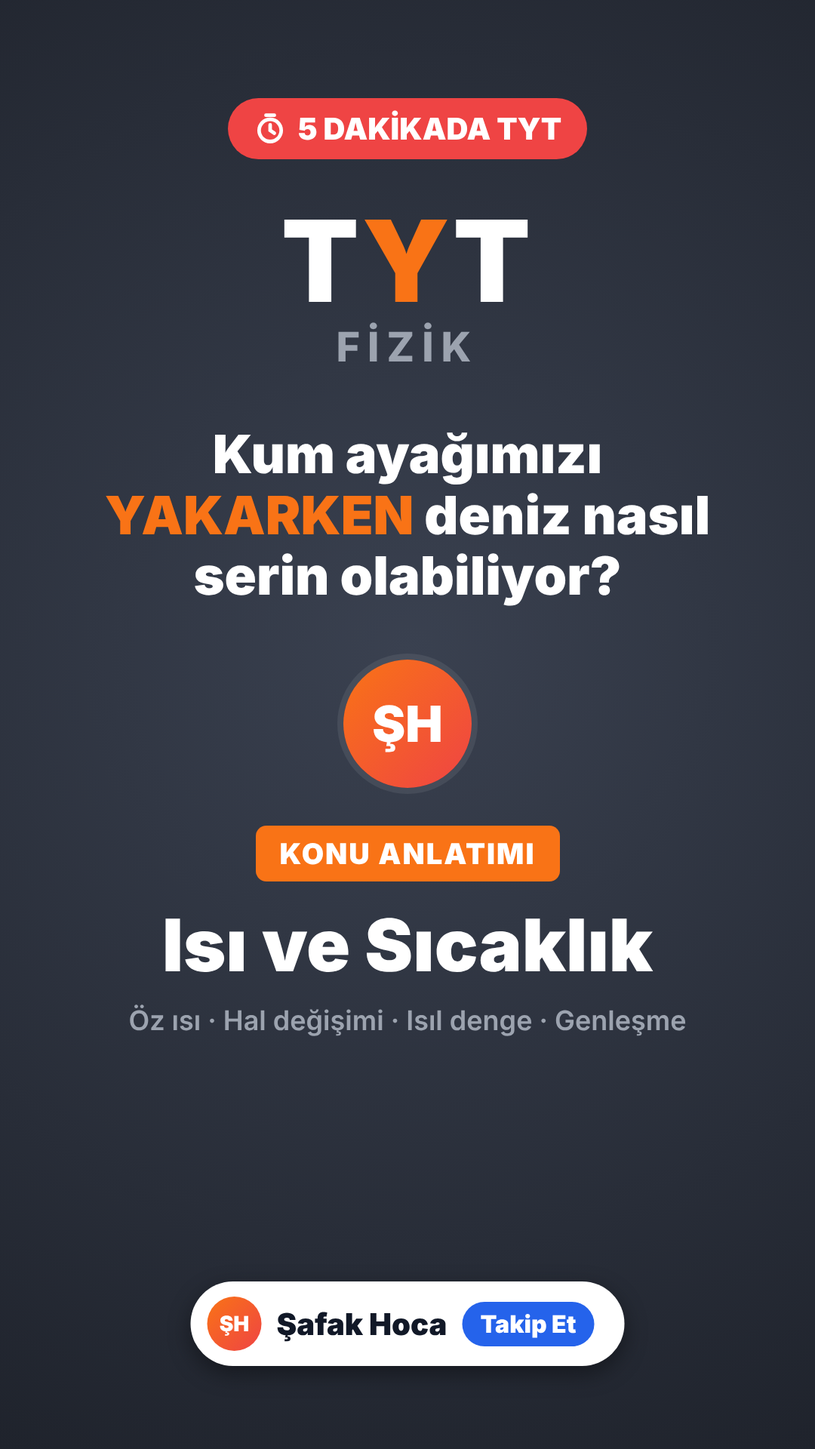
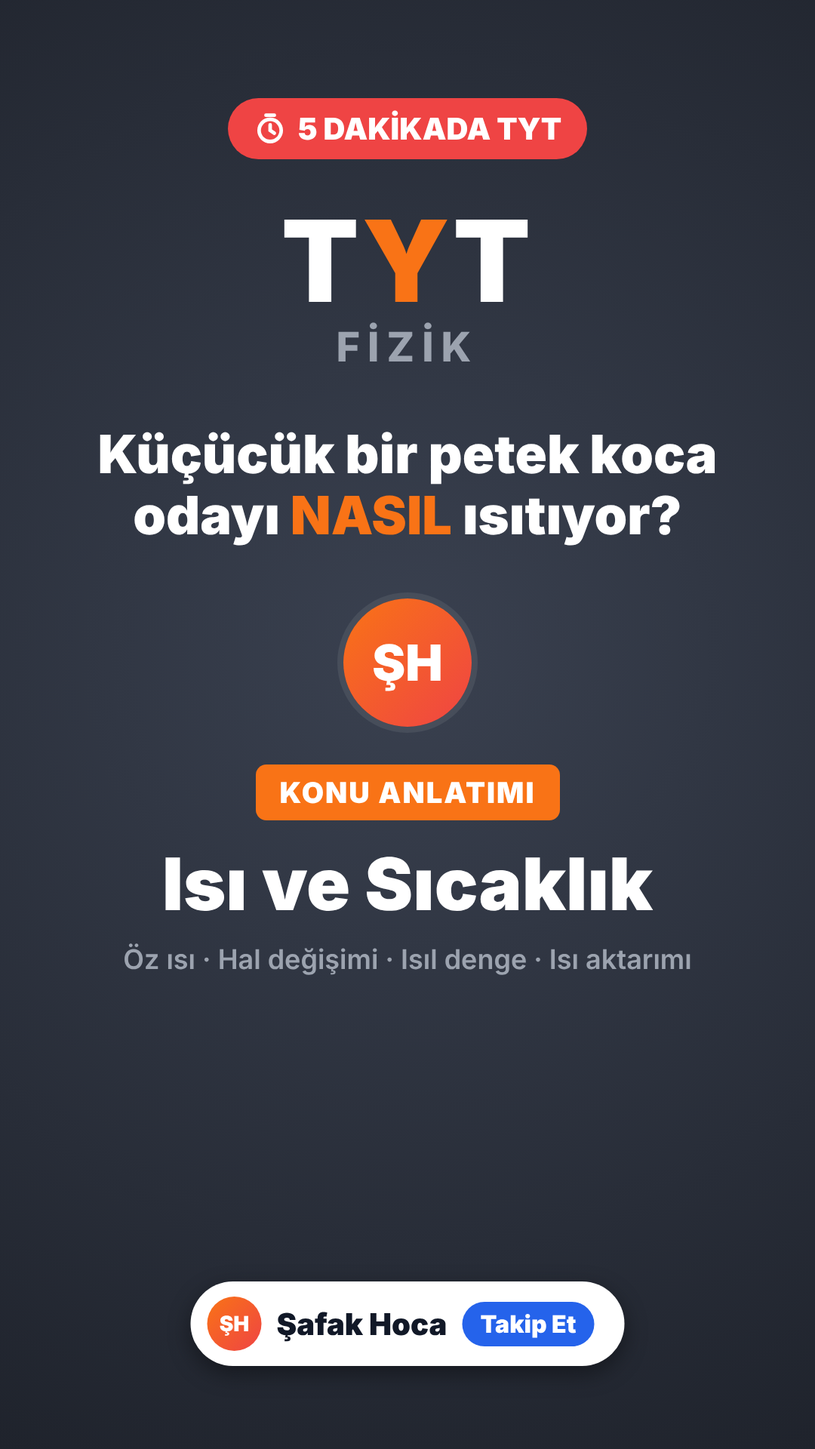
TYT Isı ve Sıcaklık: kalorifer peteği girişi, Adım 6 ısı aktarım yolları
Claude-Session: https://claude.ai/code/session_01Xc7NeVxuRXWQCx2wXCgMJt

Changed region(s): [[0.1222, 0.2812, 0.8861, 0.7188]]

diff --git a/tyt/konular/isi_sicaklik.html b/tyt/konular/isi_sicaklik.html
@@ -13,106 +13,88 @@
 </head>
 <body>
 
-<!-- ================= 1 · GİRİŞ (0:00–0:15) · plaj ================= -->
-<section class="sahne" id="giris" style="background:#0c4a6e">
+<!-- ================= 1 · GİRİŞ (0:00–0:15) · kalorifer peteği ================= -->
+<section class="sahne" id="giris" style="background:#1c1714">
   <svg viewBox="0 0 1080 1920" width="1080" height="1920" style="position:absolute;inset:0">
     <defs>
-      <linearGradient id="gok" x1="0" y1="0" x2="0" y2="1">
-        <stop offset="0" stop-color="#0369a1"/><stop offset=".55" stop-color="#38bdf8"/><stop offset="1" stop-color="#e0f2fe"/>
-      </linearGradient>
-      <radialGradient id="gunesP" cx=".5" cy=".5" r=".5">
-        <stop offset="0" stop-color="#fffbeb"/><stop offset=".35" stop-color="#fde047"/><stop offset=".6" stop-color="#facc15" stop-opacity=".55"/><stop offset="1" stop-color="#facc15" stop-opacity="0"/>
-      </radialGradient>
-      <linearGradient id="deniz" x1="0" y1="0" x2="0" y2="1">
-        <stop offset="0" stop-color="#0369a1"/><stop offset=".5" stop-color="#0284c7"/><stop offset="1" stop-color="#22d3ee"/>
-      </linearGradient>
-      <linearGradient id="kum" x1="0" y1="0" x2="0" y2="1">
-        <stop offset="0" stop-color="#fde7b0"/><stop offset=".5" stop-color="#f4c77a"/><stop offset="1" stop-color="#e0a458"/>
-      </linearGradient>
-      <linearGradient id="ust" x1="0" y1="0" x2="0" y2="1">
-        <stop offset="0" stop-color="#0b1220" stop-opacity=".85"/><stop offset=".6" stop-color="#0b1220" stop-opacity=".35"/><stop offset="1" stop-color="#0b1220" stop-opacity="0"/>
-      </linearGradient>
-      <linearGradient id="alt" x1="0" y1="0" x2="0" y2="1">
-        <stop offset="0" stop-color="#0b1220" stop-opacity="0"/><stop offset="1" stop-color="#0b1220" stop-opacity=".75"/>
-      </linearGradient>
-      <filter id="bulanik"><feGaussianBlur stdDeviation="6"/></filter>
+      <linearGradient id="duvar" x1="0" y1="0" x2="0" y2="1"><stop offset="0" stop-color="#2a211c"/><stop offset=".6" stop-color="#5a4334"/><stop offset="1" stop-color="#6b4f3c"/></linearGradient>
+      <linearGradient id="gece" x1="0" y1="0" x2="0" y2="1"><stop offset="0" stop-color="#0f1b3d"/><stop offset="1" stop-color="#3b4f86"/></linearGradient>
+      <linearGradient id="petekG" x1="0" y1="0" x2="1" y2="0"><stop offset="0" stop-color="#e2e8f0"/><stop offset=".5" stop-color="#ffffff"/><stop offset="1" stop-color="#cbd5e1"/></linearGradient>
+      <radialGradient id="sicakIsik" cx=".5" cy=".5" r=".5"><stop offset="0" stop-color="#fb923c" stop-opacity=".55"/><stop offset="1" stop-color="#fb923c" stop-opacity="0"/></radialGradient>
+      <linearGradient id="ust2" x1="0" y1="0" x2="0" y2="1"><stop offset="0" stop-color="#0b0f19" stop-opacity=".95"/><stop offset=".7" stop-color="#0b0f19" stop-opacity=".5"/><stop offset="1" stop-color="#0b0f19" stop-opacity="0"/></linearGradient>
+      <marker id="okTur" viewBox="0 0 10 10" refX="7" refY="5" markerWidth="4" markerHeight="4" orient="auto"><path d="M0 0L10 5L0 10z" fill="#fb923c"/></marker>
+      <marker id="okMav" viewBox="0 0 10 10" refX="7" refY="5" markerWidth="4" markerHeight="4" orient="auto"><path d="M0 0L10 5L0 10z" fill="#60a5fa"/></marker>
+      <filter id="yumusak"><feGaussianBlur stdDeviation="3"/></filter>
     </defs>
-    <!-- gökyüzü -->
-    <rect width="1080" height="1000" fill="url(#gok)"/>
-    <circle cx="820" cy="660" r="260" fill="url(#gunesP)"/>
-    <circle cx="820" cy="660" r="78" fill="#fffbeb"/>
-    <!-- bulutlar -->
-    <g fill="#fff" opacity=".9" filter="url(#bulanik)">
-      <ellipse cx="220" cy="720" rx="130" ry="34"/><ellipse cx="290" cy="700" rx="80" ry="34"/>
-      <ellipse cx="560" cy="800" rx="110" ry="26"/><ellipse cx="610" cy="785" rx="60" ry="24"/>
+    <!-- duvar + zemin -->
+    <rect width="1080" height="1620" fill="url(#duvar)"/>
+    <rect y="1600" width="1080" height="320" fill="#7c4a24"/>
+    <g stroke="#5b3417" stroke-width="4">
+      <line x1="0" y1="1680" x2="1080" y2="1680"/><line x1="0" y1="1770" x2="1080" y2="1770"/><line x1="0" y1="1860" x2="1080" y2="1860"/>
+      <line x1="240" y1="1600" x2="240" y2="1680"/><line x1="700" y1="1600" x2="700" y2="1680"/>
+      <line x1="460" y1="1680" x2="460" y2="1770"/><line x1="920" y1="1680" x2="920" y2="1770"/>
+      <line x1="140" y1="1770" x2="140" y2="1860"/><line x1="610" y1="1770" x2="610" y2="1860"/>
     </g>
-    <!-- uzak ada -->
-    <path d="M0 900 Q90 860 190 880 Q260 850 330 900 Z" fill="#0f766e" opacity=".75"/>
-    <!-- deniz -->
-    <rect y="895" width="1080" height="560" fill="url(#deniz)"/>
-    <rect y="895" width="1080" height="6" fill="#e0f2fe" opacity=".6"/>
-    <g fill="none" stroke="#e0f2fe" stroke-linecap="round" opacity=".55">
-      <path d="M60 960 q30 -10 60 0" stroke-width="4"/><path d="M420 990 q40 -12 80 0" stroke-width="4"/>
-      <path d="M760 950 q30 -10 60 0" stroke-width="4"/><path d="M220 1060 q50 -14 100 0" stroke-width="5"/>
-      <path d="M640 1090 q50 -14 100 0" stroke-width="5"/><path d="M900 1040 q40 -12 80 0" stroke-width="5"/>
-      <path d="M80 1180 q60 -16 120 0" stroke-width="6"/><path d="M480 1200 q60 -16 120 0" stroke-width="6"/>
+    <rect y="1590" width="1080" height="18" fill="#3f2a1c"/>
+    <!-- pencere: karlı gece -->
+    <rect x="290" y="690" width="500" height="470" rx="10" fill="url(#gece)"/>
+    <circle cx="700" cy="770" r="34" fill="#f8fafc" opacity=".9"/>
+    <path d="M290 1080 L370 1030 L450 1080 L450 1160 L290 1160 Z" fill="#1e293b"/>
+    <path d="M290 1080 L370 1030 L450 1080" fill="none" stroke="#fff" stroke-width="10" stroke-linejoin="round"/>
+    <path d="M560 1100 L650 1045 L740 1100 L740 1160 L560 1160 Z" fill="#1e293b"/>
+    <path d="M560 1100 L650 1045 L740 1100" fill="none" stroke="#fff" stroke-width="10" stroke-linejoin="round"/>
+    <rect x="390" y="1100" width="26" height="30" fill="#fbbf24"/><rect x="630" y="1115" width="26" height="30" fill="#fbbf24"/>
+    <circle cx="350" cy="760" r="5" fill="#fff" opacity=".85"/><circle cx="420" cy="820" r="4" fill="#fff" opacity=".85"/><circle cx="500" cy="740" r="6" fill="#fff" opacity=".85"/><circle cx="560" cy="880" r="4" fill="#fff" opacity=".85"/><circle cx="640" cy="780" r="5" fill="#fff" opacity=".85"/><circle cx="720" cy="850" r="4" fill="#fff" opacity=".85"/><circle cx="380" cy="930" r="5" fill="#fff" opacity=".85"/><circle cx="600" cy="960" r="4" fill="#fff" opacity=".85"/><circle cx="700" cy="1000" r="5" fill="#fff" opacity=".85"/><circle cx="460" cy="1010" r="4" fill="#fff" opacity=".85"/><circle cx="740" cy="730" r="4" fill="#fff" opacity=".85"/><circle cx="530" cy="820" r="3" fill="#fff" opacity=".85"/>
+    <rect x="290" y="690" width="500" height="470" rx="10" fill="none" stroke="#f1f5f9" stroke-width="22"/>
+    <line x1="540" y1="690" x2="540" y2="1160" stroke="#f1f5f9" stroke-width="14"/>
+    <line x1="290" y1="925" x2="790" y2="925" stroke="#f1f5f9" stroke-width="14"/>
+    <rect x="270" y="1160" width="540" height="28" rx="6" fill="#e2e8f0"/>
+    <!-- petekten yayılan sıcak ışık -->
+    <ellipse cx="540" cy="1390" rx="520" ry="300" fill="url(#sicakIsik)"/>
+    <!-- petek -->
+    <rect x="248" y="1250" width="584" height="276" rx="16" fill="#cbd5e1"/>
+    <rect x="262" y="1262" width="34" height="250" rx="12" fill="url(#petekG)" stroke="#94a3b8" stroke-width="2"/><rect x="306" y="1262" width="34" height="250" rx="12" fill="url(#petekG)" stroke="#94a3b8" stroke-width="2"/><rect x="350" y="1262" width="34" height="250" rx="12" fill="url(#petekG)" stroke="#94a3b8" stroke-width="2"/><rect x="394" y="1262" width="34" height="250" rx="12" fill="url(#petekG)" stroke="#94a3b8" stroke-width="2"/><rect x="438" y="1262" width="34" height="250" rx="12" fill="url(#petekG)" stroke="#94a3b8" stroke-width="2"/><rect x="482" y="1262" width="34" height="250" rx="12" fill="url(#petekG)" stroke="#94a3b8" stroke-width="2"/><rect x="526" y="1262" width="34" height="250" rx="12" fill="url(#petekG)" stroke="#94a3b8" stroke-width="2"/><rect x="570" y="1262" width="34" height="250" rx="12" fill="url(#petekG)" stroke="#94a3b8" stroke-width="2"/><rect x="614" y="1262" width="34" height="250" rx="12" fill="url(#petekG)" stroke="#94a3b8" stroke-width="2"/><rect x="658" y="1262" width="34" height="250" rx="12" fill="url(#petekG)" stroke="#94a3b8" stroke-width="2"/><rect x="702" y="1262" width="34" height="250" rx="12" fill="url(#petekG)" stroke="#94a3b8" stroke-width="2"/><rect x="746" y="1262" width="34" height="250" rx="12" fill="url(#petekG)" stroke="#94a3b8" stroke-width="2"/><rect x="790" y="1262" width="34" height="250" rx="12" fill="url(#petekG)" stroke="#94a3b8" stroke-width="2"/>
+    <rect x="200" y="1490" width="60" height="18" rx="6" fill="#94a3b8"/><rect x="820" y="1490" width="60" height="18" rx="6" fill="#94a3b8"/>
+    <line x1="210" y1="1500" x2="210" y2="1600" stroke="#94a3b8" stroke-width="14"/><line x1="870" y1="1500" x2="870" y2="1600" stroke="#94a3b8" stroke-width="14"/>
+    <circle cx="210" cy="1470" r="22" fill="#ef4444"/><rect x="200" y="1440" width="20" height="30" rx="4" fill="#ef4444"/>
+    <rect x="300" y="1526" width="18" height="74" fill="#94a3b8"/><rect x="762" y="1526" width="18" height="74" fill="#94a3b8"/>
+    <!-- yükselen sıcak hava -->
+    <g fill="none" stroke="#fdba74" stroke-width="7" stroke-linecap="round" opacity=".9" filter="url(#yumusak)">
+      <path d="M340 1230 q-20 -35 0 -70 q20 -35 0 -70"/><path d="M460 1230 q-20 -35 0 -70 q20 -35 0 -70"/>
+      <path d="M620 1230 q-20 -35 0 -70 q20 -35 0 -70"/><path d="M740 1230 q-20 -35 0 -70 q20 -35 0 -70"/>
     </g>
-    <!-- güneş yansıması -->
-    <g fill="#fef9c3" opacity=".7">
-      <rect x="790" y="915" width="60" height="6" rx="3"/><rect x="770" y="945" width="100" height="6" rx="3"/>
-      <rect x="800" y="980" width="44" height="6" rx="3"/><rect x="760" y="1020" width="120" height="7" rx="3"/>
+    <!-- konveksiyon döngüsü -->
+    <g fill="none" stroke-width="10" stroke-linecap="round" stroke-dasharray="26 18">
+      <path d="M860 1220 C 950 900, 980 760, 1010 680" stroke="#fb923c" marker-end="url(#okTur)"/>
+      <path d="M220 1220 C 130 900, 100 760, 70 680" stroke="#fb923c" marker-end="url(#okTur)"/>
+      <path d="M40 820 C 30 1150, 40 1450, 150 1570" stroke="#60a5fa" marker-end="url(#okMav)"/>
+      <path d="M1040 820 C 1050 1150, 1040 1450, 930 1570" stroke="#60a5fa" marker-end="url(#okMav)"/>
     </g>
-    <!-- kıyı köpüğü + kum -->
-    <path d="M0 1330 Q200 1290 420 1330 T820 1310 T1080 1300 L1080 1920 L0 1920 Z" fill="#ecfeff" opacity=".85"/>
-    <path d="M0 1350 Q200 1310 420 1350 T820 1330 T1080 1320 L1080 1920 L0 1920 Z" fill="url(#kum)"/>
-    <path d="M0 1380 Q220 1345 440 1380 T840 1360 T1080 1350" fill="none" stroke="#b45309" stroke-width="4" opacity=".25"/>
-    <!-- palmiye -->
-    <path d="M150 1560 Q130 1300 210 1060" fill="none" stroke="#78350f" stroke-width="30" stroke-linecap="round"/>
-    <g fill="#15803d">
-      <path d="M210 1060 Q100 1000 10 1070 Q110 1040 210 1075 Z"/>
-      <path d="M210 1060 Q320 990 420 1060 Q310 1035 210 1075 Z"/>
-      <path d="M210 1060 Q150 960 60 940 Q150 990 205 1072 Z"/>
-      <path d="M210 1060 Q280 950 380 950 Q290 990 215 1072 Z"/>
-      <path d="M210 1060 Q230 960 200 900 Q245 970 220 1072 Z"/>
+    <!-- kedi + halı -->
+    <ellipse cx="540" cy="1760" rx="300" ry="70" fill="#9f1239" opacity=".85"/>
+    <ellipse cx="540" cy="1760" rx="260" ry="52" fill="none" stroke="#fda4af" stroke-width="5" stroke-dasharray="14 10"/>
+    <g transform="translate(540 1720)">
+      <ellipse cx="0" cy="10" rx="110" ry="52" fill="#f97316"/>
+      <circle cx="-88" cy="-18" r="44" fill="#f97316"/>
+      <path d="M-118 -50 L-112 -88 L-88 -58 Z" fill="#f97316"/><path d="M-72 -58 L-58 -92 L-50 -52 Z" fill="#f97316"/>
+      <path d="M-104 -16 q8 6 16 0 M-80 -16 q8 6 16 0" stroke="#7c2d12" stroke-width="4" fill="none" stroke-linecap="round"/>
+      <path d="M100 20 q60 10 40 -40" stroke="#f97316" stroke-width="22" fill="none" stroke-linecap="round"/>
+      <g stroke="#7c2d12" stroke-width="6" opacity=".5" stroke-linecap="round"><line x1="-10" y1="-30" x2="-10" y2="5"/><line x1="25" y1="-32" x2="25" y2="5"/><line x1="60" y1="-25" x2="60" y2="8"/></g>
+      <text x="40" y="-70" fill="#fff" font-family="Inter" font-weight="800" font-size="40" opacity=".8">z z</text>
     </g>
-    <g fill="#166534"><circle cx="198" cy="1082" r="16"/><circle cx="224" cy="1086" r="16"/></g>
-    <!-- şemsiye + havlu -->
-    <line x1="775" y1="1130" x2="740" y2="1640" stroke="#f8fafc" stroke-width="12" stroke-linecap="round"/>
-    <path d="M775 1130 L590 1265 Q636.0 1237 682 1265 Z" fill="#ef4444" stroke="#b91c1c" stroke-width="3" stroke-linejoin="round"/>
-    <path d="M775 1130 L682 1265 Q728.5 1237 775 1265 Z" fill="#fff" stroke="#b91c1c" stroke-width="3" stroke-linejoin="round"/>
-    <path d="M775 1130 L775 1265 Q821.5 1237 868 1265 Z" fill="#ef4444" stroke="#b91c1c" stroke-width="3" stroke-linejoin="round"/>
-    <path d="M775 1130 L868 1265 Q914.0 1237 960 1265 Z" fill="#fff" stroke="#b91c1c" stroke-width="3" stroke-linejoin="round"/>
-    <circle cx="775" cy="1130" r="9" fill="#f8fafc"/>
-    <path d="M520 1720 L860 1660 L900 1780 L560 1840 Z" fill="#2563eb"/>
-    <path d="M540 1780 L875 1720" stroke="#facc15" stroke-width="16"/>
-    <!-- ayak izleri -->
-    <g fill="#c58a3e" opacity=".75">
-      <ellipse cx="380" cy="1820" rx="20" ry="34" transform="rotate(-20 380 1820)"/>
-      <ellipse cx="440" cy="1730" rx="18" ry="32" transform="rotate(-20 440 1730)"/>
-      <ellipse cx="420" cy="1630" rx="17" ry="30" transform="rotate(-20 420 1630)"/>
-      <ellipse cx="480" cy="1545" rx="16" ry="28" transform="rotate(-20 480 1545)"/>
-      <ellipse cx="460" cy="1460" rx="14" ry="25" transform="rotate(-20 460 1460)"/>
-    </g>
-    <!-- sıcak hava dalgaları (kum) -->
-    <g fill="none" stroke="#fff7ed" stroke-width="7" stroke-linecap="round" opacity=".75">
-      <path d="M300 1560 q-18 -30 0 -60 q18 -30 0 -60"/>
-      <path d="M380 1600 q-18 -30 0 -60 q18 -30 0 -60"/>
-      <path d="M560 1560 q-18 -30 0 -60 q18 -30 0 -60"/>
-    </g>
-    <!-- okunurluk için koyu geçişler -->
-    <rect width="1080" height="640" fill="url(#ust)"/>
-    <rect y="1600" width="1080" height="320" fill="url(#alt)"/>
+    <!-- okunurluk -->
+    <rect width="1080" height="660" fill="url(#ust2)"/>
     <!-- sıcaklık etiketleri -->
     <g font-family="Inter" font-weight="900" text-anchor="middle">
-      <rect x="240" y="1385" width="250" height="96" rx="48" fill="#dc2626" stroke="#fff" stroke-width="5"/>
-      <text x="365" y="1450" fill="#fff" font-size="54">50 °C</text>
-      <rect x="560" y="1015" width="250" height="96" rx="48" fill="#1d4ed8" stroke="#fff" stroke-width="5"/>
-      <text x="685" y="1080" fill="#fff" font-size="54">24 °C</text>
+      <rect x="415" y="805" width="250" height="96" rx="48" fill="#1d4ed8" stroke="#fff" stroke-width="5"/>
+      <text x="540" y="870" fill="#fff" font-size="54">−5 °C</text>
+      <rect x="760" y="1035" width="250" height="96" rx="48" fill="#ea580c" stroke="#fff" stroke-width="5"/>
+      <text x="885" y="1100" fill="#fff" font-size="54">22 °C</text>
     </g>
   </svg>
   <div class="hk-top"><span>TYT FİZİK</span></div>
-  <div class="hk-soru" style="text-shadow:0 4px 18px rgba(0,0,0,.55)">Kum ayağımızı <em>YAKARKEN</em> deniz nasıl <em style="color:#7dd3fc">SERİN</em> olabiliyor?</div>
-  <div class="hk-alt" style="bottom:110px;color:#fff;text-shadow:0 3px 12px rgba(0,0,0,.6)">Aynı Güneş, farklı sıcaklık. Cevap 5 dakikada.</div>
+  <div class="hk-soru" style="top:230px;text-shadow:0 4px 18px rgba(0,0,0,.6)">Küçücük bir petek koca odayı <em>NASIL</em> ısıtıyor?</div>
+  <div class="hk-alt" style="top:520px;bottom:auto;color:#fde68a;text-shadow:0 3px 12px rgba(0,0,0,.7)">Hem de neden hep pencerenin altında?</div>
 </section>
 
 <!-- ================= 2 · KAPAK (0:15–0:22) ================= -->
@@ -124,11 +106,11 @@
     </div>
     <div class="sinav">T<span>Y</span>T</div>
     <div class="ders">FİZİK</div>
-    <div class="soru">Kum ayağımızı <em>YAKARKEN</em> deniz nasıl serin olabiliyor?</div>
+    <div class="soru">Küçücük bir petek koca odayı <em>NASIL</em> ısıtıyor?</div>
     <div class="logo">ŞH</div>
     <div class="ka">KONU ANLATIMI</div>
     <div class="konu">Isı ve Sıcaklık</div>
-    <div class="alt2">Öz ısı · Hal değişimi · Isıl denge · Genleşme</div>
+    <div class="alt2">Öz ısı · Hal değişimi · Isıl denge · Isı aktarımı</div>
   </div>
   <div class="takip"><div class="logo">ŞH</div>Şafak Hoca <b>Takip Et</b></div>
 </section>
@@ -195,7 +177,7 @@
 <section class="sahne" id="a3">
   <div class="bant"><div class="etiket">TYT · ISI VE SICAKLIK</div><div class="adim">ADIM <b>3</b> / 7</div></div>
   <div class="pg">
-    <div class="hd"><div class="t1">Öz Isı ve Isı Sığası</div><div class="t2">Kumsalın cevabı burada</div></div>
+    <div class="hd"><div class="t1">Öz Isı ve Isı Sığası</div><div class="t2">Kaloriferde neden su dolaşıyor?</div></div>
     <div class="formul">Q = m · c · ΔT<small>c: öz ısı · m·c: ısı sığası</small></div>
     <p class="tanim"><span class="f">Öz ısı</span>, 1 gram maddenin sıcaklığını 1 °C artırmak için gereken ısıdır. <span class="v">Ayırt edicidir</span>, kütleye bağlı değildir.</p>
     <svg viewBox="0 0 980 300" width="100%" height="300">
@@ -210,7 +192,7 @@
         <text x="740" y="220" fill="#dbeafe" font-size="34">yavaş ısınır</text>
       </g>
     </svg>
-    <p class="not">Aynı ısıyı alan kum, sudan ~5 kat fazla ısınır <span class="ok">✓</span></p>
+    <p class="not">Su, öz ısısı büyük olduğu için kazandan peteğe bol ısı taşır <span class="ok">✓</span></p>
     <div class="tuzak"><b class="b">TYT TUZAĞI</b><br><strong>Isı sığası (m·c)</strong> kütleye bağlıdır, ayırt edici <strong>değildir</strong>. Öz ısı (c) ise ayırt edicidir.</div>
   </div>
   <div class="alt"><div class="logo">ŞH</div><div class="ad">Şafak Hoca<small>TYT Fizik</small></div><div class="ilerleme"><i style="width:45%"></i></div><div class="zaman">1:30</div></div>
@@ -275,27 +257,46 @@
   <div class="alt"><div class="logo">ŞH</div><div class="ad">Şafak Hoca<small>TYT Fizik</small></div><div class="ilerleme"><i style="width:72%"></i></div><div class="zaman">2:55</div></div>
 </section>
 
-<!-- ================= 8 · ADIM 6: GENLEŞME (3:35–4:10) ================= -->
+<!-- ================= 8 · ADIM 6: ISI AKTARIM YOLLARI (3:35–4:10) ================= -->
 <section class="sahne" id="a6">
   <div class="bant"><div class="etiket">TYT · ISI VE SICAKLIK</div><div class="adim">ADIM <b>6</b> / 7</div></div>
   <div class="pg">
-    <div class="hd"><div class="t1">Genleşme</div><div class="t2">Isınan madde büyür</div></div>
-    <div class="formul">ΔL = L₀ · λ · ΔT<small>λ: boyca uzama katsayısı (ayırt edici)</small></div>
-    <svg viewBox="0 0 980 260" width="100%" height="260">
-      <g font-weight="900">
-        <rect x="40" y="40" width="640" height="56" rx="10" fill="#94a3b8"/>
-        <text x="360" y="80" fill="#1f2937" font-size="32" text-anchor="middle">L₀ (soğuk)</text>
-        <rect x="40" y="150" width="760" height="56" rx="10" fill="#fb923c"/>
-        <text x="360" y="190" fill="#431407" font-size="32" text-anchor="middle">ısıtılmış</text>
-        <line x1="680" y1="30" x2="680" y2="230" stroke="#fff" stroke-width="3" stroke-dasharray="8 6"/>
-        <text x="740" y="140" fill="#fff" font-size="36" text-anchor="middle">ΔL</text>
+    <div class="hd"><div class="t1">Isı Aktarım Yolları</div><div class="t2">Petek odayı üç yolla ısıtır</div></div>
+    <svg viewBox="0 0 980 560" width="100%" height="560">
+      <defs>
+        <marker id="o1" viewBox="0 0 10 10" refX="7" refY="5" markerWidth="4" markerHeight="4" orient="auto"><path d="M0 0L10 5L0 10z" fill="#fb923c"/></marker>
+        <marker id="o2" viewBox="0 0 10 10" refX="7" refY="5" markerWidth="4" markerHeight="4" orient="auto"><path d="M0 0L10 5L0 10z" fill="#60a5fa"/></marker>
+        <marker id="o3" viewBox="0 0 10 10" refX="7" refY="5" markerWidth="4" markerHeight="4" orient="auto"><path d="M0 0L10 5L0 10z" fill="#facc15"/></marker>
+      </defs>
+      <!-- petek -->
+      <rect x="300" y="300" width="380" height="190" rx="14" fill="#cbd5e1"/>
+      <g fill="#f8fafc" stroke="#94a3b8" stroke-width="2">
+        <rect x="312" y="310" width="30" height="170" rx="10"/><rect x="352" y="310" width="30" height="170" rx="10"/><rect x="392" y="310" width="30" height="170" rx="10"/>
+        <rect x="432" y="310" width="30" height="170" rx="10"/><rect x="472" y="310" width="30" height="170" rx="10"/><rect x="512" y="310" width="30" height="170" rx="10"/>
+        <rect x="552" y="310" width="30" height="170" rx="10"/><rect x="592" y="310" width="30" height="170" rx="10"/><rect x="632" y="310" width="30" height="170" rx="10"/>
       </g>
+      <!-- 1 iletim: sıcak su → metal -->
+      <path d="M180 470 H300" stroke="#ef4444" stroke-width="22" stroke-linecap="round"/>
+      <text x="40" y="420" fill="#fff" font-size="36" font-weight="900">1 · İletim</text>
+      <text x="40" y="530" fill="#e5e7eb" font-size="28" font-weight="600">sıcak su → metal</text>
+      <!-- 2 konveksiyon: sıcak hava yükselir -->
+      <path d="M420 280 C 400 200, 460 140, 430 60" fill="none" stroke="#fb923c" stroke-width="9" stroke-dasharray="20 14" stroke-linecap="round" marker-end="url(#o1)"/>
+      <path d="M560 280 C 540 200, 600 140, 570 60" fill="none" stroke="#fb923c" stroke-width="9" stroke-dasharray="20 14" stroke-linecap="round" marker-end="url(#o1)"/>
+      <path d="M260 60 C 230 160, 230 230, 290 300" fill="none" stroke="#60a5fa" stroke-width="9" stroke-dasharray="20 14" stroke-linecap="round" marker-end="url(#o2)"/>
+      <text x="440" y="40" fill="#fff" font-size="36" font-weight="900">2 · Konveksiyon</text>
+      <!-- 3 ışıma -->
+      <g stroke="#facc15" stroke-width="8" stroke-linecap="round">
+        <line x1="700" y1="330" x2="830" y2="270" marker-end="url(#o3)"/><line x1="700" y1="395" x2="850" y2="395" marker-end="url(#o3)"/><line x1="700" y1="460" x2="830" y2="520" marker-end="url(#o3)"/>
+      </g>
+      <text x="740" y="220" fill="#fff" font-size="36" font-weight="900">3 · Işıma</text>
     </svg>
     <ul class="liste">
-      <li>Ray aralarındaki <b>boşluklar</b>, köprü <b>derzleri</b></li>
-      <li>Delikli levha ısınınca <b>delik de büyür</b></li>
+      <li><b>İletim:</b> tanecikten taneciğe, dokunarak (katılarda)</li>
+      <li><b>Konveksiyon:</b> sıcak akışkan yükselir, soğuğu iner</li>
+      <li><b>Işıma:</b> ışınla, madde gerekmeden (Güneş)</li>
     </ul>
-    <div class="tuzak"><b class="b">TYT TUZAĞI</b><br>Su <strong>0 °C → 4 °C</strong> arasında ısıtılınca hacmi <strong>küçülür</strong>. Suyun özkütlesi 4 °C'de en büyüktür; göller bu yüzden üstten donar.</div>
+    <p class="not" style="margin-top:14px">Petek pencere altında: soğuk havayı ısıtıp yükseltir, döngü başlar <span class="ok">✓</span></p>
+    <div class="tuzak"><b class="b">TYT TUZAĞI</b><br>Konveksiyon <strong>yalnızca akışkanlarda</strong> (sıvı, gaz) olur. Işıma için madde <strong>gerekmez</strong>; boşlukta da olur.</div>
   </div>
   <div class="alt"><div class="logo">ŞH</div><div class="ad">Şafak Hoca<small>TYT Fizik</small></div><div class="ilerleme"><i style="width:84%"></i></div><div class="zaman">3:35</div></div>
 </section>
@@ -332,7 +333,7 @@
     <div class="alt2" style="font-size:44px;margin-top:40px">Isı ve Sıcaklık ✓</div>
     <ul class="liste" style="text-align:left;margin-top:70px;font-size:40px">
       <li>Isı aktarılır, sıcaklık ölçülür</li><li>Q = m·c·ΔT · Q = m·L</li>
-      <li>Verilen ısı = alınan ısı</li><li>Su 0–4 °C arası büzülür</li>
+      <li>Verilen ısı = alınan ısı</li><li>İletim · konveksiyon · ışıma</li>
     </ul>
     <div class="alt2" style="margin-top:60px">Sıradaki TYT konusu için takipte kal</div>
   </div>

diff --git a/tyt/konular/isi_sicaklik.md b/tyt/konular/isi_sicaklik.md
@@ -7,14 +7,14 @@
 
 | # | Sahne | Zaman | Süre |
 |---|---|---|---|
-| 1 | Giriş (plaj): "Kum ayağımızı yakarken deniz nasıl serin olabiliyor?" | 0:00–0:15 | 15 sn |
+| 1 | Giriş (oda + kalorifer peteği): "Küçücük bir petek koca odayı nasıl ısıtıyor?" | 0:00–0:15 | 15 sn |
 | 2 | Kapak + Takip Et | 0:15–0:22 | 7 sn |
 | 3 | Adım 1 · Isı ≠ sıcaklık | 0:22–0:55 | 33 sn |
 | 4 | Adım 2 · Sıcaklık ölçekleri | 0:55–1:30 | 35 sn |
 | 5 | Adım 3 · Öz ısı ve ısı sığası | 1:30–2:15 | 45 sn |
 | 6 | Adım 4 · Hal değişimi | 2:15–2:55 | 40 sn |
 | 7 | Adım 5 · Isıl denge | 2:55–3:35 | 40 sn |
-| 8 | Adım 6 · Genleşme | 3:35–4:10 | 35 sn |
+| 8 | Adım 6 · Isı aktarım yolları | 3:35–4:10 | 35 sn |
 | 9 | Adım 7 · TYT tarzı soru | 4:10–4:50 | 40 sn |
 | 10 | Kapanış: KONU BİTTİ + Takip Et | 4:50–5:00 | 10 sn |
 
@@ -23,8 +23,8 @@
 ## Seslendirme metni
 
 ### 1 · Giriş (0:00–0:15)
-*Ekran: tam ekran plaj; kumda "50 °C", denizde "24 °C" etiketi, kumun üstünde sıcak hava dalgaları.*
-Temmuz, öğle sıcağı. Havluya koşarken kum ayağını yakıyor, zıplaya zıplaya gidiyorsun. Ama birkaç adım ötede deniz serin. İkisinin üstünde de aynı Güneş var. Peki kum ayağımızı yakarken deniz nasıl serin olabiliyor? Cevap 5 dakikada.
+*Ekran: kış gecesi, karlı pencere (−5 °C), altında kalorifer peteği, oda 22 °C, halıda uyuyan kedi; odada dönen sıcak (turuncu) ve soğuk (mavi) hava okları.*
+Dışarıda eksi beş derece, kar yağıyor. İçeride yirmi iki derece, kedi bile mışıl mışıl uyuyor. Peki duvardaki o küçücük petek koca odayı nasıl ısıtıyor? Hem de neden hep pencerenin altında duruyor? Cevap 5 dakikada.
 
 ### 2 · Kapak (0:15–0:22)
 Ben Şafak Hoca. 5 dakikada TYT'lik ısı ve sıcaklık. Takip etmeyi unutma, başlıyoruz.
@@ -38,7 +38,7 @@ Ben Şafak Hoca. 5 dakikada TYT'lik ısı ve sıcaklık. Takip etmeyi unutma, ba
 **TYT tuzağı:** Sıcaklık on derece artarsa Kelvin'de de on artar. Değişimde iki yüz yetmiş üç eklenmez.
 
 ### 5 · Adım 3 · Öz ısı ve ısı sığası (1:30–2:15)
-Kumsalın cevabı burada. Bir maddeye verilen ısı Q eşittir m çarpı c çarpı delta T. Buradaki c öz ısıdır: bir gram maddenin sıcaklığını bir derece artırmak için gereken ısı. Öz ısı maddeyi tanıtır, yani ayırt edicidir ve kütleye bağlı değildir. Suyun öz ısısı bir kalori, kumunki yaklaşık sıfır virgül iki. Yani aynı ısıyı alan kum, sudan yaklaşık beş kat fazla ısınır. Deniz bu yüzden serin kalır.
+Kaloriferde neden su dolaşıyor? Cevap öz ısıda. Bir maddeye verilen ısı Q eşittir m çarpı c çarpı delta T. Buradaki c öz ısıdır: bir gram maddenin sıcaklığını bir derece artırmak için gereken ısı. Öz ısı maddeyi tanıtır, yani ayırt edicidir ve kütleye bağlı değildir. Suyun öz ısısı bir kalori, kumunki yaklaşık sıfır virgül iki. Aynı ısıyı alan kum sudan yaklaşık beş kat fazla ısınır; su ise ısıyı zor alır ama çok fazla depolar. Kazanda ısınan su, bu bol ısıyı borular boyunca peteğe taşır.
 **TYT tuzağı:** m çarpı c yani ısı sığası kütleye bağlıdır, ayırt edici değildir. Ayırt edici olan öz ısıdır.
 
 ### 6 · Adım 4 · Hal değişimi (2:15–2:55)
@@ -49,12 +49,12 @@ Eksi yirmi derecedeki buzu ısıtalım. Önce sıcaklık sıfıra çıkar. Sonra
 Sıcak ve soğuk iki maddeyi karıştırınca sıcak olan ısı verir, soğuk olan ısı alır. Kural basit: verilen ısı eşittir alınan ısı. Yirmi derecedeki yüz gram suyu, seksen derecedeki iki yüz gram suyla karıştıralım. Yüz çarpı T eksi yirmi, eşittir iki yüz çarpı seksen eksi T. Buradan T altmış derece çıkar. Gördüğün gibi denge sıcaklığı, ısı sığası büyük olan sıcak suya daha yakın.
 **TYT tuzağı:** Denge sıcaklığı her zaman iki sıcaklığın arasındadır. Tam ortalama ise yalnızca ısı sığaları eşitse çıkar.
 
-### 8 · Adım 6 · Genleşme (3:35–4:10)
-Isınan madde genleşir. Bir çubuğun boyundaki uzama, delta L eşittir L sıfır çarpı lambda çarpı delta T. Lambda maddeye özgüdür. Raylar arasındaki boşluklar ve köprülerdeki derzler bu yüzden var. Delikli bir levhayı ısıtırsan delik de büyür.
-**TYT tuzağı:** Su sıfır ile dört derece arasında ısıtılınca hacmi küçülür. Suyun özkütlesi dört derecede en büyüktür; göller bu yüzden üstten donar.
+### 8 · Adım 6 · Isı aktarım yolları (3:35–4:10)
+Ve girişteki sorunun cevabı. Petek odayı üç yolla ısıtır. Bir: iletim. Sıcak su peteğin metaline dokunarak ısı verir; ısı tanecikten taneciğe geçer. İki: konveksiyon. Peteğin ısıttığı hava hafifler ve yükselir, soğuk hava aşağı iner ve peteğe gelir. Böylece odada dönen bir hava akımı oluşur. Petek pencerenin altındadır, çünkü camdan gelen soğuk havayı hemen ısıtıp yükseltir ve bu döngüyü başlatır. Üç: ışıma. Peteğin yanında durunca yüzünde hissettiğin sıcaklık ışımadır; Güneş de Dünya'yı böyle ısıtır.
+**TYT tuzağı:** Konveksiyon yalnızca akışkanlarda, yani sıvı ve gazlarda olur. Işıma için madde gerekmez; boşlukta da olur.
 
 ### 9 · Adım 7 · TYT tarzı soru (4:10–4:50)
 Şimdi sıra sende. Kütleleri 2m ve m olan X ve Y sıvıları özdeş ısıtıcılarla eşit süre ısıtılıyor. Sıcaklıkları on ve kırk derece artıyor. Öz ısılar oranı cX bölü cY kaçtır? Videoyu durdur ve çöz. … Bakalım: Özdeş ısıtıcı, eşit süre, demek ki aldıkları ısı eşit. 2m çarpı cX çarpı on, eşittir m çarpı cY çarpı kırk. Yirmi cX eşittir kırk cY, yani cX bölü cY eşittir iki. Doğru şık D.
 
 ### 10 · Kapanış (4:50–5:00)
-Konu bitti. Isı aktarılır, sıcaklık ölçülür. Q eşittir m c delta T, hal değişiminde m L. Verilen ısı alınan ısıya eşit. Sıradaki TYT konusu için takipte kal.
+Konu bitti. Isı aktarılır, sıcaklık ölçülür. Q eşittir m c delta T, hal değişiminde m L. Verilen ısı alınan ısıya eşit. Ve ısı; iletim, konveksiyon ve ışımayla yayılır. Sıradaki TYT konusu için takipte kal.
